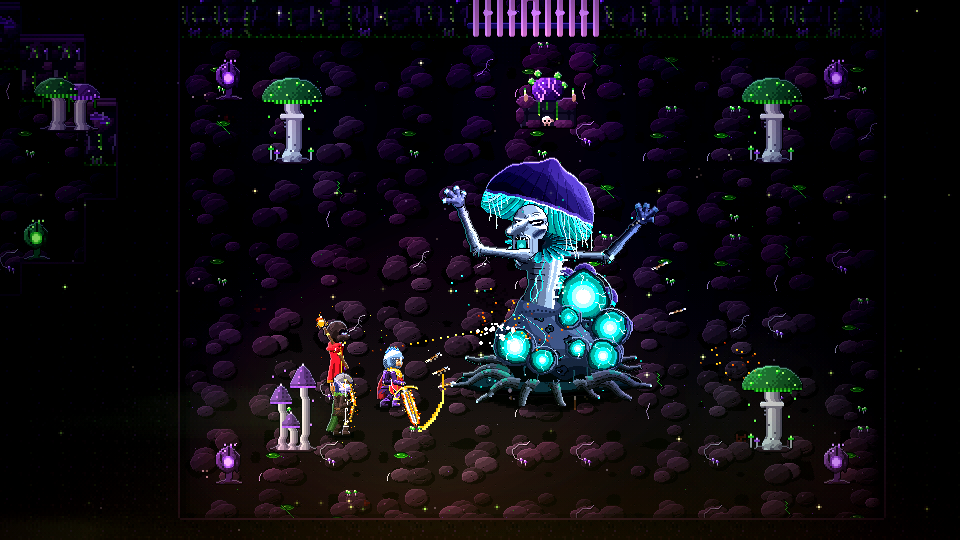
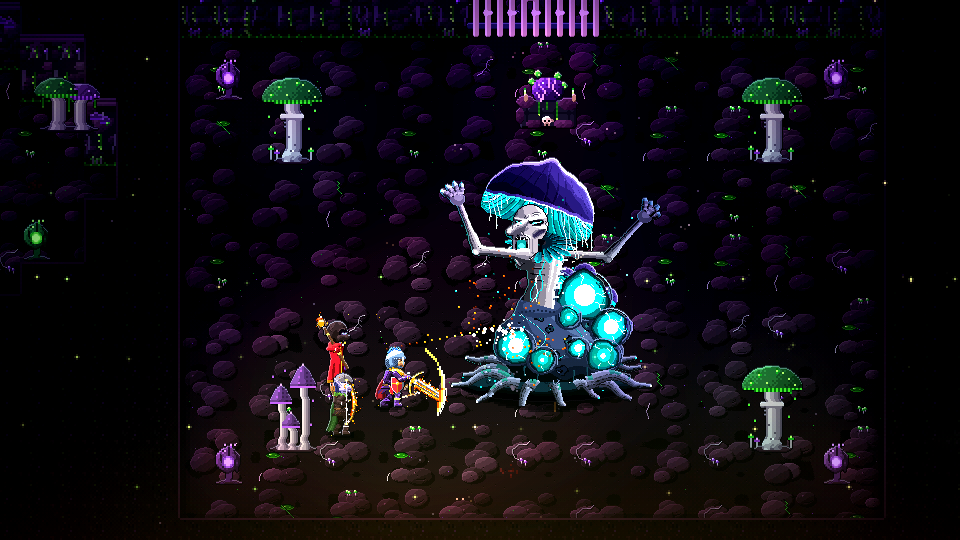
Mutter Fäulnis: Arme modelliert, hellere Haut, harte Leuchtstufen
Zweite Prüfrunde:
- Arme ohne Linienkontur, nur harte Hell-Dunkel-Stufen; spitzer Ellbogenknochen,
  eingefallener Unterarm mit Rinne, Handgelenk dünner als der Handrücken,
  vier getrennte, gegliederte Krallenfinger (Bosskino: kürzere Finger).
- Fahle Aschehaut statt Grau-Blau, setzt sich vom nachtblauen Leib ab; breite
  helle Hutoberkante; deutlicher Kontaktschatten; Wurzeln heller als der Boden.
- Leuchten in drei harten Stufen, Kapseln mit heißem Kern, Mittelring, Rand.
- Hutrippen unregelmäßig (Breite, Schwung, Unterbrechungen).

Claude-Session: https://claude.ai/code/session_014Wu8i3QgZxKwoUXG4nWsVr

Changed region(s): [[0.3438, 0.2963, 0.6875, 0.8], [0.7812, 0.7111, 0.8438, 0.7407], [0.75, 0.8, 0.7812, 0.8296]]

diff --git a/site/bosskino.js b/site/bosskino.js
@@ -13,7 +13,7 @@
   const poster = stage?.querySelector('img');
   if (!root || !stage || !poster) return;
   // <bosskino.mjs> – von tools/bosskino.mjs geschrieben, nicht von Hand ändern
-  const META = {"szene":{"W":560,"H":216,"FY":190,"F":2,"X0":-152,"X1":712},"bosse":{"malgareth":{"name":"malgareth","glut":["#fff2c0","#ffb648","#c8420c"],"fokus":[300,290],"fig":{"x":201,"y":23,"w":272,"h":171},"ruhe":[{"r":"hinten","n":8,"ms":170},{"r":"koerper","seq":[0,0,0,1,1,2,2,2,1,1],"ms":210},{"r":"krone","n":6,"ms":100,"dy":[0,-1,-2],"von":"koerper"},{"r":"flamme","n":6,"ms":100}],"moment":{"f":[[0,130],[1,110],[2,110],[3,80],[4,80],[5,80],[6,80],[7,80],[8,80],[9,80],[10,60],[11,50],[12,60],[13,70],[14,90],[15,110],[16,140],[17,140],[18,140],[19,110],[20,130],[21,110],[22,130],[23,120]],"hit":12},"stopp":80,"beben":[[0,3],[2,-2],[-1,1],[1,0]],"warn":{"x0":8,"x1":240,"y":187,"h":7,"dir":-1,"vor":760,"c":["#7a1a08","#c8420c","#ffb648"]},"ereignisse":[{"k":"bild","r":"welle","at":0,"x":-152,"y":187,"w":405,"h":29,"n":35,"ms":60,"z":"boden"},{"k":"bild","r":"blitz","at":0,"x":226,"y":159,"w":41,"h":34,"n":5,"ms":60,"quer":true,"z":"vorn"},{"k":"wand","r":"wand","r2":"wand2","r3":"wand3","at":30,"x":242,"y":193,"dir":-1,"v":300,"weg":328,"w":74,"h":100,"w2":40,"h2":58,"w3":18,"h3":28,"n":6,"ms":70,"abst":8,"nach":680,"z":"vorn"},{"k":"funken","at":0,"x":246,"y":188,"n":34,"r":5,"vx":60,"vy":140,"g":300,"c":["#fff2c0","#ffb648","#e8641a","#a8300a"]},{"k":"funken","at":0,"x":246,"y":189,"n":20,"r":9,"vx":40,"vy":50,"g":80,"c":["#6a5040","#4e3a30","#3a2a24"]}],"schalen":[[70,131],[436,131]],"schale":{"w":16,"h":20,"n":6,"ms":90},"schaleNach":"mitte-glut","teilchen":"asche","dichte":2.2,"nach":"boden-glut","dauer":9.5,"start":2.4,"layers":[{"name":"fern","x":-152,"y":0,"f":0.15,"r":[2176,2030,1728,432]},{"name":"fern-glut","x":286,"y":0,"f":0.15,"glow":{"per":3.6,"lo":0.55,"steps":3},"r":[3114,2462,338,322]},{"name":"mitte","x":-152,"y":0,"f":0.45,"r":[0,2052,1728,432]},{"name":"mitte-glut","x":73,"y":149,"f":0.45,"glow":{"per":4.1,"lo":0.66,"steps":3},"r":[1452,2894,754,132]},{"name":"boden","x":-152,"y":186,"f":1,"r":[0,3026,1728,60]},{"name":"boden-glut","x":230,"y":187,"f":1,"glow":{"per":3.4,"lo":0.6,"steps":3},"r":[2206,3010,488,44]},{"name":"vorn","x":-152,"y":0,"f":1.35,"r":[1728,2462,1386,432]}],"figur":{"fx":151,"fy":167,"r":{"hinten":[0,2484,1552,332],"koerper":[3114,2784,696,314],"krone":[2694,2962,336,44],"flamme":[888,2816,564,142],"moment":[0,0,2176,2052,544,342,4]},"o":{"hinten":[147,2,97,166],"koerper":[66,11,116,157],"krone":[130,5,28,22],"flamme":[63,97,47,71],"moment":[0,0,272,171]}},"fxr":{"welle":[2176,0,810,2030],"wand":[0,2816,888,200],"wand2":[2206,2894,480,116],"wand3":[3810,2462,216,56],"schale":[3810,2518,192,40],"blitz":[2686,2894,410,68]}},"faeulnis":{"glut":["#e2fff6","#7cf0dc","#0a726e"],"fokus":[300,332],"teilchen":"sporen","dichte":3.4,"dauer":9.5,"start":2.2,"name":"faeulnis","fig":{"x":229,"y":22,"w":340,"h":169},"ruhe":[{"n":6,"ms":150,"r":"arm-h"},{"n":8,"ms":170,"r":"koerper"},{"n":6,"ms":150,"r":"arm-v"}],"moment":{"f":[[0,110],[1,100],[2,120],[3,120],[4,120],[5,120],[6,60],[7,60],[8,100],[9,110],[10,130],[11,110],[12,120],[13,140],[14,140],[15,140],[16,200],[17,160]],"hit":8},"nach":"boden-glut","ereignisse":[{"k":"bild","r":"welle","at":0,"x":-149,"y":188,"w":407,"h":28,"n":46,"ms":60,"z":"boden"},{"k":"bild","r":"blitz","at":0,"x":239,"y":172,"w":25,"h":22,"n":4,"ms":60,"quer":true,"z":"vorn"},{"k":"funken","at":0,"x":251,"y":188,"n":22,"r":6,"vx":40,"vy":90,"g":200,"c":["#e2fff6","#7cf0dc","#1cc0ae","#0a726e"]},{"k":"funken","at":0,"x":251,"y":189,"n":16,"r":8,"vx":30,"vy":40,"g":80,"c":["#584c36","#3e3626","#28231a"]},{"k":"bild","r":"dorn","at":100,"x":205,"y":114,"w":40,"h":78,"n":9,"ms":80,"quer":true,"z":"vorn"},{"k":"funken","at":180,"x":225,"y":188,"n":8,"r":5,"vx":26,"vy":60,"g":220,"c":["#584c36","#3e3626","#464e2a"]},{"k":"bild","r":"dorn2","at":215,"x":180,"y":139,"w":30,"h":54,"n":9,"ms":80,"quer":true,"z":"vorn"},{"k":"funken","at":295,"x":195,"y":188,"n":8,"r":5,"vx":26,"vy":60,"g":220,"c":["#584c36","#3e3626","#464e2a"]},{"k":"bild","r":"wolke","at":355,"x":155,"y":128,"w":80,"h":64,"n":11,"ms":100,"quer":true,"z":"vorn"},{"k":"funken","at":275,"x":195,"y":184,"n":10,"r":6,"vx":18,"vy":30,"g":0,"c":["#e2fff6","#7cf0dc","#1cc0ae","#0a726e"]},{"k":"bild","r":"dorn","at":330,"x":145,"y":116,"w":40,"h":78,"n":9,"ms":80,"quer":true,"z":"vorn"},{"k":"funken","at":410,"x":165,"y":188,"n":8,"r":5,"vx":26,"vy":60,"g":220,"c":["#584c36","#3e3626","#464e2a"]},{"k":"bild","r":"dorn2","at":446,"x":120,"y":138,"w":30,"h":54,"n":9,"ms":80,"quer":true,"z":"vorn"},{"k":"funken","at":526,"x":135,"y":188,"n":8,"r":5,"vx":26,"vy":60,"g":220,"c":["#584c36","#3e3626","#464e2a"]},{"k":"bild","r":"wolke","at":586,"x":95,"y":128,"w":80,"h":64,"n":11,"ms":100,"quer":true,"z":"vorn"},{"k":"funken","at":506,"x":135,"y":184,"n":10,"r":6,"vx":18,"vy":30,"g":0,"c":["#e2fff6","#7cf0dc","#1cc0ae","#0a726e"]},{"k":"bild","r":"dorn","at":561,"x":85,"y":115,"w":40,"h":78,"n":9,"ms":80,"quer":true,"z":"vorn"},{"k":"funken","at":641,"x":105,"y":188,"n":8,"r":5,"vx":26,"vy":60,"g":220,"c":["#584c36","#3e3626","#464e2a"]},{"k":"bild","r":"dorn2","at":676,"x":60,"y":140,"w":30,"h":54,"n":9,"ms":80,"quer":true,"z":"vorn"},{"k":"funken","at":756,"x":75,"y":188,"n":8,"r":5,"vx":26,"vy":60,"g":220,"c":["#584c36","#3e3626","#464e2a"]},{"k":"bild","r":"wolke","at":816,"x":35,"y":128,"w":80,"h":64,"n":11,"ms":100,"quer":true,"z":"vorn"},{"k":"funken","at":736,"x":75,"y":184,"n":10,"r":6,"vx":18,"vy":30,"g":0,"c":["#e2fff6","#7cf0dc","#1cc0ae","#0a726e"]},{"k":"bild","r":"dorn","at":792,"x":25,"y":114,"w":40,"h":78,"n":9,"ms":80,"quer":true,"z":"vorn"},{"k":"funken","at":872,"x":45,"y":188,"n":8,"r":5,"vx":26,"vy":60,"g":220,"c":["#584c36","#3e3626","#464e2a"]},{"k":"bild","r":"dorn2","at":907,"x":0,"y":139,"w":30,"h":54,"n":9,"ms":80,"quer":true,"z":"vorn"},{"k":"funken","at":987,"x":15,"y":188,"n":8,"r":5,"vx":26,"vy":60,"g":220,"c":["#584c36","#3e3626","#464e2a"]},{"k":"bild","r":"wolke","at":1047,"x":-25,"y":128,"w":80,"h":64,"n":11,"ms":100,"quer":true,"z":"vorn"},{"k":"funken","at":967,"x":15,"y":184,"n":10,"r":6,"vx":18,"vy":30,"g":0,"c":["#e2fff6","#7cf0dc","#1cc0ae","#0a726e"]}],"stopp":70,"beben":[[0,3],[2,-2],[-2,1],[1,-1],[-1,1],[1,0],[0,1]],"warn":{"x0":12,"x1":247,"y":187,"h":7,"dir":-1,"vor":650,"c":["#04383a","#0a726e","#7cf0dc"]},"layers":[{"name":"fern","x":-152,"y":0,"f":0.15,"r":[0,3018,1728,432]},{"name":"fern-glut","x":-146,"y":1,"f":0.15,"glow":{"per":3.4,"lo":0.45,"steps":3},"r":[1728,3018,1716,262]},{"name":"mitte","x":-152,"y":97,"f":0.45,"r":[1728,3280,1728,238]},{"name":"mitte-glut","x":-138,"y":134,"f":0.45,"glow":{"per":2.9,"lo":0.4,"steps":3},"r":[2094,3860,1694,54]},{"name":"boden","x":-152,"y":186,"f":1,"r":[2094,3800,1728,60]},{"name":"boden-glut","x":-149,"y":194,"f":1,"glow":{"per":2.6,"lo":0.4,"steps":3},"r":[0,3826,1582,38]},{"name":"vorn","x":-138,"y":174,"f":1.35,"r":[0,3742,1684,84]}],"figur":{"r":{"arm-h":[0,3450,1248,184],"koerper":[814,2028,1788,990,596,330,3],"arm-v":[1968,3518,1464,154],"moment":[814,0,2040,2028,680,338,3]},"o":{"arm-h":[52,69,104,92],"koerper":[42,4,298,165],"arm-v":[19,76,122,77],"moment":[0,0,340,169]}},"fxr":{"blitz":[1684,3800,410,68],"dorn":[1248,3518,720,156],"dorn2":[0,3634,540,108],"wolke":[1968,3672,1760,128],"welle":[0,0,814,2576]}},"skalvyr":{"glut":["#ffffff","#9aeefc","#34b8e4"],"fokus":[292,298],"teilchen":"schnee","dichte":5,"dauer":9.5,"start":2.2,"beben":[[0,4],[3,-3],[-3,2],[2,-2],[-2,1],[1,-1],[0,1],[1,0]],"stopp":80,"name":"skalvyr","fig":{"x":167,"y":20,"w":390,"h":171},"ruhe":[{"n":12,"ms":150,"r":"koerper"}],"moment":{"f":[[0,150],[1,170],[2,100],[3,110],[4,110],[5,110],[6,110],[7,110],[8,150],[9,170],[10,190],[11,170]],"hit":8},"nach":"boden-glut","ereignisse":[{"k":"bild","r":"schatten","at":-770,"x":62,"y":176,"w":260,"h":26,"n":20,"ms":40,"quer":true,"z":"boden"},{"k":"bild","r":"reste","at":270,"x":62,"y":176,"w":260,"h":26,"n":11,"ms":150,"quer":true,"z":"boden"},{"k":"bild","r":"welle","at":0,"x":-138,"y":187,"w":661,"h":29,"n":41,"ms":60,"z":"boden"},{"k":"zapfen","r":"zapfen-s","r2":"steckt-s","at":-20,"x":174,"y":187,"vor":640,"w":18,"h":62,"n":5,"ms":16,"sw":54,"sh":68,"mr":1,"z":"vorn"},{"k":"zapfen","r":"zapfen-m","r2":"steckt-m","at":-70,"x":226,"y":188,"vor":640,"w":24,"h":82,"n":5,"ms":26,"sw":60,"sh":88,"mr":1,"z":"vorn"},{"k":"zapfen","r":"zapfen-m","r2":"steckt-m","at":-110,"x":160,"y":190,"vor":640,"w":24,"h":82,"n":5,"ms":34,"sw":60,"sh":88,"mr":1,"z":"vorn"},{"k":"zapfen","r":"zapfen-s","r2":"steckt-s","at":-130,"x":252,"y":194,"vor":640,"w":18,"h":62,"n":5,"ms":38,"sw":54,"sh":68,"mr":1,"z":"vorn"},{"k":"zapfen","r":"zapfen-l","r2":"steckt-l","at":0,"x":190,"y":195,"vor":640,"w":30,"h":104,"n":5,"ms":12,"sw":66,"sh":110,"mr":1,"z":"vorn"},{"k":"zapfen","r":"zapfen-s","r2":"steckt-s","at":-40,"x":138,"y":196,"vor":640,"w":18,"h":62,"n":5,"ms":20,"sw":54,"sh":68,"mr":1,"z":"vorn"},{"k":"zapfen","r":"zapfen-s","r2":"steckt-s","at":-90,"x":208,"y":197,"vor":640,"w":18,"h":62,"n":5,"ms":30,"sw":54,"sh":68,"mr":1,"z":"vorn"},{"k":"bild","r":"kranz","at":0,"x":62,"y":52,"w":260,"h":150,"n":12,"ms":60,"quer":true,"z":"vorn"},{"k":"funken","at":-520,"x":200,"y":10,"n":10,"r":16,"vx":6,"vy":-30,"g":140,"c":["#ffffff","#9aeefc","#34b8e4","#1670a0"]},{"k":"funken","at":-460,"x":150,"y":10,"n":10,"r":16,"vx":6,"vy":-30,"g":140,"c":["#ffffff","#9aeefc","#34b8e4","#1670a0"]},{"k":"funken","at":-400,"x":250,"y":10,"n":10,"r":16,"vx":6,"vy":-30,"g":140,"c":["#ffffff","#9aeefc","#34b8e4","#1670a0"]},{"k":"funken","at":-340,"x":120,"y":10,"n":10,"r":16,"vx":6,"vy":-30,"g":140,"c":["#ffffff","#9aeefc","#34b8e4","#1670a0"]},{"k":"funken","at":-280,"x":228,"y":10,"n":10,"r":16,"vx":6,"vy":-30,"g":140,"c":["#ffffff","#9aeefc","#34b8e4","#1670a0"]},{"k":"funken","at":-220,"x":176,"y":10,"n":10,"r":16,"vx":6,"vy":-30,"g":140,"c":["#ffffff","#9aeefc","#34b8e4","#1670a0"]}],"warn":null,"layers":[{"name":"fern","x":-152,"y":0,"f":0.15,"r":[2080,2736,1728,432]},{"name":"fern-glut","x":264,"y":7,"f":0.15,"glow":{"per":3.8,"lo":0.55,"steps":3},"r":[3808,0,220,342]},{"name":"mitte","x":-152,"y":0,"f":0.45,"r":[2080,3168,1728,432]},{"name":"mitte-glut","x":-140,"y":0,"f":0.45,"glow":{"per":3.1,"lo":0.5,"steps":3},"r":[0,3636,1696,342]},{"name":"boden","x":-152,"y":186,"f":1,"r":[2080,4252,1728,60]},{"name":"boden-glut","x":341,"y":192,"f":1,"glow":{"per":3.3,"lo":0.4,"steps":3},"r":[3880,466,204,20]},{"name":"vorn","x":-152,"y":0,"f":1.35,"r":[2080,3600,1728,432]}],"figur":{"r":{"koerper":[1322,1368,1998,1368,666,342,3],"moment":[1322,0,2340,1368,780,342,3]},"o":{"koerper":[57,0,333,171],"moment":[0,0,390,171]}},"fxr":{"zapfen-l":[4028,0,60,208],"steckt-l":[2080,4032,660,220],"zapfen-m":[4028,208,48,164],"steckt-m":[2740,4032,600,176],"zapfen-s":[3880,342,36,124],"steckt-s":[3340,4032,540,136],"kranz":[0,2736,2080,900,520,300,4],"schatten":[0,3978,2080,260,520,52,4],"reste":[0,4238,2080,156,520,52,4],"welle":[0,0,1322,2378]}}}};
+  const META = {"szene":{"W":560,"H":216,"FY":190,"F":2,"X0":-152,"X1":712},"bosse":{"malgareth":{"name":"malgareth","glut":["#fff2c0","#ffb648","#c8420c"],"fokus":[300,290],"fig":{"x":201,"y":23,"w":272,"h":171},"ruhe":[{"r":"hinten","n":8,"ms":170},{"r":"koerper","seq":[0,0,0,1,1,2,2,2,1,1],"ms":210},{"r":"krone","n":6,"ms":100,"dy":[0,-1,-2],"von":"koerper"},{"r":"flamme","n":6,"ms":100}],"moment":{"f":[[0,130],[1,110],[2,110],[3,80],[4,80],[5,80],[6,80],[7,80],[8,80],[9,80],[10,60],[11,50],[12,60],[13,70],[14,90],[15,110],[16,140],[17,140],[18,140],[19,110],[20,130],[21,110],[22,130],[23,120]],"hit":12},"stopp":80,"beben":[[0,3],[2,-2],[-1,1],[1,0]],"warn":{"x0":8,"x1":240,"y":187,"h":7,"dir":-1,"vor":760,"c":["#7a1a08","#c8420c","#ffb648"]},"ereignisse":[{"k":"bild","r":"welle","at":0,"x":-152,"y":187,"w":405,"h":29,"n":35,"ms":60,"z":"boden"},{"k":"bild","r":"blitz","at":0,"x":226,"y":159,"w":41,"h":34,"n":5,"ms":60,"quer":true,"z":"vorn"},{"k":"wand","r":"wand","r2":"wand2","r3":"wand3","at":30,"x":242,"y":193,"dir":-1,"v":300,"weg":328,"w":74,"h":100,"w2":40,"h2":58,"w3":18,"h3":28,"n":6,"ms":70,"abst":8,"nach":680,"z":"vorn"},{"k":"funken","at":0,"x":246,"y":188,"n":34,"r":5,"vx":60,"vy":140,"g":300,"c":["#fff2c0","#ffb648","#e8641a","#a8300a"]},{"k":"funken","at":0,"x":246,"y":189,"n":20,"r":9,"vx":40,"vy":50,"g":80,"c":["#6a5040","#4e3a30","#3a2a24"]}],"schalen":[[70,131],[436,131]],"schale":{"w":16,"h":20,"n":6,"ms":90},"schaleNach":"mitte-glut","teilchen":"asche","dichte":2.2,"nach":"boden-glut","dauer":9.5,"start":2.4,"layers":[{"name":"fern","x":-152,"y":0,"f":0.15,"r":[2176,2030,1728,432]},{"name":"fern-glut","x":286,"y":0,"f":0.15,"glow":{"per":3.6,"lo":0.55,"steps":3},"r":[3114,2462,338,322]},{"name":"mitte","x":-152,"y":0,"f":0.45,"r":[0,2052,1728,432]},{"name":"mitte-glut","x":73,"y":149,"f":0.45,"glow":{"per":4.1,"lo":0.66,"steps":3},"r":[1452,2894,754,132]},{"name":"boden","x":-152,"y":186,"f":1,"r":[0,3026,1728,60]},{"name":"boden-glut","x":230,"y":187,"f":1,"glow":{"per":3.4,"lo":0.6,"steps":3},"r":[2206,3010,488,44]},{"name":"vorn","x":-152,"y":0,"f":1.35,"r":[1728,2462,1386,432]}],"figur":{"fx":151,"fy":167,"r":{"hinten":[0,2484,1552,332],"koerper":[3114,2784,696,314],"krone":[2694,2962,336,44],"flamme":[888,2816,564,142],"moment":[0,0,2176,2052,544,342,4]},"o":{"hinten":[147,2,97,166],"koerper":[66,11,116,157],"krone":[130,5,28,22],"flamme":[63,97,47,71],"moment":[0,0,272,171]}},"fxr":{"welle":[2176,0,810,2030],"wand":[0,2816,888,200],"wand2":[2206,2894,480,116],"wand3":[3810,2462,216,56],"schale":[3810,2518,192,40],"blitz":[2686,2894,410,68]}},"faeulnis":{"glut":["#e2fff6","#7cf0dc","#0a726e"],"fokus":[300,332],"teilchen":"sporen","dichte":3.4,"dauer":9.5,"start":2.2,"name":"faeulnis","fig":{"x":229,"y":22,"w":340,"h":169},"ruhe":[{"n":6,"ms":150,"r":"arm-h"},{"n":8,"ms":170,"r":"koerper"},{"n":6,"ms":150,"r":"arm-v"}],"moment":{"f":[[0,110],[1,100],[2,120],[3,120],[4,120],[5,120],[6,60],[7,60],[8,100],[9,110],[10,130],[11,110],[12,120],[13,140],[14,140],[15,140],[16,200],[17,160]],"hit":8},"nach":"boden-glut","ereignisse":[{"k":"bild","r":"welle","at":0,"x":-149,"y":188,"w":407,"h":28,"n":46,"ms":60,"z":"boden"},{"k":"bild","r":"blitz","at":0,"x":239,"y":172,"w":25,"h":22,"n":4,"ms":60,"quer":true,"z":"vorn"},{"k":"funken","at":0,"x":251,"y":188,"n":22,"r":6,"vx":40,"vy":90,"g":200,"c":["#e2fff6","#7cf0dc","#1cc0ae","#0a726e"]},{"k":"funken","at":0,"x":251,"y":189,"n":16,"r":8,"vx":30,"vy":40,"g":80,"c":["#584c36","#3e3626","#28231a"]},{"k":"bild","r":"dorn","at":100,"x":205,"y":114,"w":40,"h":78,"n":9,"ms":80,"quer":true,"z":"vorn"},{"k":"funken","at":180,"x":225,"y":188,"n":8,"r":5,"vx":26,"vy":60,"g":220,"c":["#584c36","#3e3626","#464e2a"]},{"k":"bild","r":"dorn2","at":215,"x":180,"y":139,"w":30,"h":54,"n":9,"ms":80,"quer":true,"z":"vorn"},{"k":"funken","at":295,"x":195,"y":188,"n":8,"r":5,"vx":26,"vy":60,"g":220,"c":["#584c36","#3e3626","#464e2a"]},{"k":"bild","r":"wolke","at":355,"x":155,"y":128,"w":80,"h":64,"n":11,"ms":100,"quer":true,"z":"vorn"},{"k":"funken","at":275,"x":195,"y":184,"n":10,"r":6,"vx":18,"vy":30,"g":0,"c":["#e2fff6","#7cf0dc","#1cc0ae","#0a726e"]},{"k":"bild","r":"dorn","at":330,"x":145,"y":116,"w":40,"h":78,"n":9,"ms":80,"quer":true,"z":"vorn"},{"k":"funken","at":410,"x":165,"y":188,"n":8,"r":5,"vx":26,"vy":60,"g":220,"c":["#584c36","#3e3626","#464e2a"]},{"k":"bild","r":"dorn2","at":446,"x":120,"y":138,"w":30,"h":54,"n":9,"ms":80,"quer":true,"z":"vorn"},{"k":"funken","at":526,"x":135,"y":188,"n":8,"r":5,"vx":26,"vy":60,"g":220,"c":["#584c36","#3e3626","#464e2a"]},{"k":"bild","r":"wolke","at":586,"x":95,"y":128,"w":80,"h":64,"n":11,"ms":100,"quer":true,"z":"vorn"},{"k":"funken","at":506,"x":135,"y":184,"n":10,"r":6,"vx":18,"vy":30,"g":0,"c":["#e2fff6","#7cf0dc","#1cc0ae","#0a726e"]},{"k":"bild","r":"dorn","at":561,"x":85,"y":115,"w":40,"h":78,"n":9,"ms":80,"quer":true,"z":"vorn"},{"k":"funken","at":641,"x":105,"y":188,"n":8,"r":5,"vx":26,"vy":60,"g":220,"c":["#584c36","#3e3626","#464e2a"]},{"k":"bild","r":"dorn2","at":676,"x":60,"y":140,"w":30,"h":54,"n":9,"ms":80,"quer":true,"z":"vorn"},{"k":"funken","at":756,"x":75,"y":188,"n":8,"r":5,"vx":26,"vy":60,"g":220,"c":["#584c36","#3e3626","#464e2a"]},{"k":"bild","r":"wolke","at":816,"x":35,"y":128,"w":80,"h":64,"n":11,"ms":100,"quer":true,"z":"vorn"},{"k":"funken","at":736,"x":75,"y":184,"n":10,"r":6,"vx":18,"vy":30,"g":0,"c":["#e2fff6","#7cf0dc","#1cc0ae","#0a726e"]},{"k":"bild","r":"dorn","at":792,"x":25,"y":114,"w":40,"h":78,"n":9,"ms":80,"quer":true,"z":"vorn"},{"k":"funken","at":872,"x":45,"y":188,"n":8,"r":5,"vx":26,"vy":60,"g":220,"c":["#584c36","#3e3626","#464e2a"]},{"k":"bild","r":"dorn2","at":907,"x":0,"y":139,"w":30,"h":54,"n":9,"ms":80,"quer":true,"z":"vorn"},{"k":"funken","at":987,"x":15,"y":188,"n":8,"r":5,"vx":26,"vy":60,"g":220,"c":["#584c36","#3e3626","#464e2a"]},{"k":"bild","r":"wolke","at":1047,"x":-25,"y":128,"w":80,"h":64,"n":11,"ms":100,"quer":true,"z":"vorn"},{"k":"funken","at":967,"x":15,"y":184,"n":10,"r":6,"vx":18,"vy":30,"g":0,"c":["#e2fff6","#7cf0dc","#1cc0ae","#0a726e"]}],"stopp":70,"beben":[[0,3],[2,-2],[-2,1],[1,-1],[-1,1],[1,0],[0,1]],"warn":{"x0":12,"x1":247,"y":187,"h":7,"dir":-1,"vor":650,"c":["#04383a","#0a726e","#7cf0dc"]},"layers":[{"name":"fern","x":-152,"y":0,"f":0.15,"r":[0,3018,1728,432]},{"name":"fern-glut","x":-146,"y":1,"f":0.15,"glow":{"per":3.4,"lo":0.45,"steps":3},"r":[1728,3018,1716,262]},{"name":"mitte","x":-152,"y":97,"f":0.45,"r":[1728,3280,1728,238]},{"name":"mitte-glut","x":-138,"y":134,"f":0.45,"glow":{"per":2.9,"lo":0.4,"steps":3},"r":[0,3842,1694,54]},{"name":"boden","x":-152,"y":186,"f":1,"r":[1684,3782,1728,60]},{"name":"boden-glut","x":-149,"y":194,"f":1,"glow":{"per":2.6,"lo":0.4,"steps":3},"r":[1694,3842,1582,38]},{"name":"vorn","x":-138,"y":174,"f":1.35,"r":[0,3724,1684,84]}],"figur":{"r":{"arm-h":[0,3450,1164,166],"koerper":[814,2028,1788,990,596,330,3],"arm-v":[1884,3518,1344,136],"moment":[814,0,2040,2028,680,338,3]},"o":{"arm-h":[59,69,97,83],"koerper":[42,4,298,165],"arm-v":[29,76,112,68],"moment":[0,0,340,169]}},"fxr":{"blitz":[3644,0,410,68],"dorn":[1164,3518,720,156],"dorn2":[0,3616,540,108],"wolke":[1884,3654,1760,128],"welle":[0,0,814,2576]}},"skalvyr":{"glut":["#ffffff","#9aeefc","#34b8e4"],"fokus":[292,298],"teilchen":"schnee","dichte":5,"dauer":9.5,"start":2.2,"beben":[[0,4],[3,-3],[-3,2],[2,-2],[-2,1],[1,-1],[0,1],[1,0]],"stopp":80,"name":"skalvyr","fig":{"x":167,"y":20,"w":390,"h":171},"ruhe":[{"n":12,"ms":150,"r":"koerper"}],"moment":{"f":[[0,150],[1,170],[2,100],[3,110],[4,110],[5,110],[6,110],[7,110],[8,150],[9,170],[10,190],[11,170]],"hit":8},"nach":"boden-glut","ereignisse":[{"k":"bild","r":"schatten","at":-770,"x":62,"y":176,"w":260,"h":26,"n":20,"ms":40,"quer":true,"z":"boden"},{"k":"bild","r":"reste","at":270,"x":62,"y":176,"w":260,"h":26,"n":11,"ms":150,"quer":true,"z":"boden"},{"k":"bild","r":"welle","at":0,"x":-138,"y":187,"w":661,"h":29,"n":41,"ms":60,"z":"boden"},{"k":"zapfen","r":"zapfen-s","r2":"steckt-s","at":-20,"x":174,"y":187,"vor":640,"w":18,"h":62,"n":5,"ms":16,"sw":54,"sh":68,"mr":1,"z":"vorn"},{"k":"zapfen","r":"zapfen-m","r2":"steckt-m","at":-70,"x":226,"y":188,"vor":640,"w":24,"h":82,"n":5,"ms":26,"sw":60,"sh":88,"mr":1,"z":"vorn"},{"k":"zapfen","r":"zapfen-m","r2":"steckt-m","at":-110,"x":160,"y":190,"vor":640,"w":24,"h":82,"n":5,"ms":34,"sw":60,"sh":88,"mr":1,"z":"vorn"},{"k":"zapfen","r":"zapfen-s","r2":"steckt-s","at":-130,"x":252,"y":194,"vor":640,"w":18,"h":62,"n":5,"ms":38,"sw":54,"sh":68,"mr":1,"z":"vorn"},{"k":"zapfen","r":"zapfen-l","r2":"steckt-l","at":0,"x":190,"y":195,"vor":640,"w":30,"h":104,"n":5,"ms":12,"sw":66,"sh":110,"mr":1,"z":"vorn"},{"k":"zapfen","r":"zapfen-s","r2":"steckt-s","at":-40,"x":138,"y":196,"vor":640,"w":18,"h":62,"n":5,"ms":20,"sw":54,"sh":68,"mr":1,"z":"vorn"},{"k":"zapfen","r":"zapfen-s","r2":"steckt-s","at":-90,"x":208,"y":197,"vor":640,"w":18,"h":62,"n":5,"ms":30,"sw":54,"sh":68,"mr":1,"z":"vorn"},{"k":"bild","r":"kranz","at":0,"x":62,"y":52,"w":260,"h":150,"n":12,"ms":60,"quer":true,"z":"vorn"},{"k":"funken","at":-520,"x":200,"y":10,"n":10,"r":16,"vx":6,"vy":-30,"g":140,"c":["#ffffff","#9aeefc","#34b8e4","#1670a0"]},{"k":"funken","at":-460,"x":150,"y":10,"n":10,"r":16,"vx":6,"vy":-30,"g":140,"c":["#ffffff","#9aeefc","#34b8e4","#1670a0"]},{"k":"funken","at":-400,"x":250,"y":10,"n":10,"r":16,"vx":6,"vy":-30,"g":140,"c":["#ffffff","#9aeefc","#34b8e4","#1670a0"]},{"k":"funken","at":-340,"x":120,"y":10,"n":10,"r":16,"vx":6,"vy":-30,"g":140,"c":["#ffffff","#9aeefc","#34b8e4","#1670a0"]},{"k":"funken","at":-280,"x":228,"y":10,"n":10,"r":16,"vx":6,"vy":-30,"g":140,"c":["#ffffff","#9aeefc","#34b8e4","#1670a0"]},{"k":"funken","at":-220,"x":176,"y":10,"n":10,"r":16,"vx":6,"vy":-30,"g":140,"c":["#ffffff","#9aeefc","#34b8e4","#1670a0"]}],"warn":null,"layers":[{"name":"fern","x":-152,"y":0,"f":0.15,"r":[2080,2736,1728,432]},{"name":"fern-glut","x":264,"y":7,"f":0.15,"glow":{"per":3.8,"lo":0.55,"steps":3},"r":[3808,0,220,342]},{"name":"mitte","x":-152,"y":0,"f":0.45,"r":[2080,3168,1728,432]},{"name":"mitte-glut","x":-140,"y":0,"f":0.45,"glow":{"per":3.1,"lo":0.5,"steps":3},"r":[0,3636,1696,342]},{"name":"boden","x":-152,"y":186,"f":1,"r":[2080,4252,1728,60]},{"name":"boden-glut","x":341,"y":192,"f":1,"glow":{"per":3.3,"lo":0.4,"steps":3},"r":[3880,466,204,20]},{"name":"vorn","x":-152,"y":0,"f":1.35,"r":[2080,3600,1728,432]}],"figur":{"r":{"koerper":[1322,1368,1998,1368,666,342,3],"moment":[1322,0,2340,1368,780,342,3]},"o":{"koerper":[57,0,333,171],"moment":[0,0,390,171]}},"fxr":{"zapfen-l":[4028,0,60,208],"steckt-l":[2080,4032,660,220],"zapfen-m":[4028,208,48,164],"steckt-m":[2740,4032,600,176],"zapfen-s":[3880,342,36,124],"steckt-s":[3340,4032,540,136],"kranz":[0,2736,2080,900,520,300,4],"schatten":[0,3978,2080,260,520,52,4],"reste":[0,4238,2080,156,520,52,4],"welle":[0,0,1322,2378]}}}};
   // </bosskino.mjs>
   if (!META) return;
   const S = META.szene;

diff --git a/src/sprites/rot_mother.js b/src/sprites/rot_mother.js
@@ -39,13 +39,13 @@ const R = (a) => a.map(hex);
 
 // Materialrampen (dunkel -> hell)
 const FLESH = R(['#06080e', '#0d1120', '#171d31', '#232b45', '#313b5b', '#455375', '#637393']);
-const SKIN = R(['#090b14', '#1d2331', '#333d51', '#515d75', '#77899f', '#a5b5c5', '#d5e1e9']);
-const CAP_EDGE = R(['#c4b4ec', '#9c88d0']);
+const SKIN = R(['#0c0c12', '#26262e', '#42404c', '#66626e', '#928c94', '#bdb7ba', '#e6e2e0']);   // fahle Aschehaut, wärmer als der Leib
+const CAP_EDGE = R(['#ece4ff', '#c8bcf0', '#a090dc']);
 const CAP = R(['#07051a', '#120d2c', '#1d1540', '#2a1f58', '#3c2c72', '#54408e', '#7862ae']);
 const SPOT = R(['#46566a', '#7a8ea2', '#b4c6d4', '#e6f2f6']);
 const GILL = R(['#061e28', '#0a3846', '#115e6c', '#1c8e96', '#46c6c2', '#a6f2ea']);
 const HAIR = R(['#16262e', '#2a4652', '#46707c', '#70a2aa', '#a4d4d4', '#dcf8f2']);
-const BARK = R(['#08080c', '#14161e', '#222634', '#323a4c', '#48526a', '#64708c']);
+const BARK = R(['#0e0e14', '#262a3a', '#3c4258', '#565e7a', '#747e9c', '#98a2be']);
 const SHADOW = R(['#020205', '#05060c']);
 const MOSS = R(['#08161a', '#0e2a2e', '#164044', '#20585a', '#2e7472']);
 const SAC = R(['#04161c', '#082e36', '#0e5860', '#1c9898', '#58dacd', '#a6f4e6', '#e6fff8']);
@@ -126,7 +126,7 @@ class Painter {
     const v = lvl * this.gk;
     if (v < 0.5) return;
     if (X < 0 || X >= TW || Y < 0 || Y >= this.clip * RS || Y >= TH) return;
-    const l = Math.min(4, Math.round(v)), i = Y * TW + X;
+    const l = v < 1.3 ? 1 : v < 2.6 ? 2 : 4, i = Y * TW + X;   // drei harte Leuchtstufen
     this.g[i] = SET_A[k][l]; this.e[i] = SET_B[k][l];
     if (X < this.x0) this.x0 = X; if (X > this.x1) this.x1 = X; if (Y < this.y0) this.y0 = Y; if (Y > this.y1) this.y1 = Y;
   }
@@ -708,7 +708,7 @@ function sacFine(pt, P, c, rr, gp, torn, i) {
         continue;
       }
       const dl = d + (dx + dy) / rf * 0.12;   // Licht oben links: Kern leicht dorthin versetzt
-      let k = dl < 0.36 ? 5 : dl < 0.6 ? 4 : dl < 0.78 ? 3 : dl < 0.9 ? 2 : 1;
+      let k = dl < 0.42 ? 5 : dl < 0.72 ? 3 : 2;   // harte Stufen: heißer Kern, Mittelring, dunkler Rand
       if (d > 0.93) k = 0;
       else if (d > 0.86) k = Math.min(k, 1);
       for (const bl of blots) {
@@ -718,7 +718,7 @@ function sacFine(pt, P, c, rr, gp, torn, i) {
         if (bd < 1) { k = Math.max(1, Math.min(k, 3) - (bd > 0.6 ? 2 : 1)); break; }
       }
       pt.tex(X, Y, SAC[Math.max(0, k - sh)]);
-      if (d < 0.8) pt.gtex(X, Y, K_SAC, (0.8 - d) * 3.6 * gp + 0.3 * gp + (d < 0.2 ? 0.6 : 0));
+      if (d < 0.72) pt.gtex(X, Y, K_SAC, (d < 0.18 ? 3.2 : dl < 0.42 ? 2.0 : 1.0) * gp);
     }
   }
   if (torn) return;
@@ -931,8 +931,8 @@ const RM_FACE = [
   '..............oo',
 ];
 const RM_SPLIT_FINE = 36, RM_SPLIT = 18; // ab dieser Zeile klappt der Unterkiefer nach unten
-const RM_SKIN = R(['#090b14', '#1d2331', '#333d51', '#515d75', '#77899f', '#a5b5c5', '#d5e1e9']);
-const RM_ROT = R(['#191a36', '#24304a']);
+const RM_SKIN = R(['#0c0c12', '#26262e', '#42404c', '#66626e', '#928c94', '#bdb7ba', '#e6e2e0']);
+const RM_ROT = R(['#1e1a30', '#2e2a44']);
 const RM_EYE = R(['#e2fff6', '#46d6c6']), RM_EYE_OFF = R(['#1d2331', '#121620']);
 const RM_MAW = hex('#06050c'), RM_FANG = R(['#d5e1e9', '#8ea0b4']);
 function headPos(P, L) {
@@ -1063,13 +1063,17 @@ function capPass(pt, P, K, part) {
         } else {
           let v = 0.12 + hgt * 0.5 - q * 0.36 + (hgt > 0.6 && q < 0.05 ? 0.12 : 0);
           // radiale Rillen: zur Spitze hin zusammenlaufend
-          const q0 = q / Math.max(0.2, 1 - 0.6 * Math.pow(hgt, 1.4)), gs = Math.sin(q0 * 13 + 0.3);
-          if (hgt < 0.8 && Math.abs(gs) < gw) v -= 0.15;
-          else if (fine && hgt < 0.8 && gs > gw && gs < gw * 2.2 && q < 0.3) v += 0.07;   // Lichtgrat neben der Rille
+          // unregelmäßig: jede Rille mit eigener Breite, leichtem Schwung und Unterbrechungen
+          const q0 = q / Math.max(0.2, 1 - 0.6 * Math.pow(hgt, 1.4)), ga = q0 * 13 + 0.3, gi = Math.round(ga / Math.PI);
+          const gs = Math.sin(ga + 0.45 * Math.sin(hgt * 6.5 + gi * 1.9) + (hash2(gi, 1, 401) - 0.5) * 0.9);
+          const gwi = gw * (0.5 + hash2(gi, 2, 401) * 1.1), cut = hash2(gi, Math.floor(hgt * 5), 403) < 0.22;
+          if (hgt < 0.8 + hash2(gi, 3, 401) * 0.12 && Math.abs(gs) < gwi && !cut) v -= 0.15;
+          else if (fine && hgt < 0.8 && gs > gwi && gs < gwi * 2.2 && q < 0.3 && !cut) v += 0.07;   // Lichtgrat neben der Rille
           col = fine ? shadeF(CAP, v) : shade(CAP, v, X, Y);
           // helle Randkante über die ganze Kuppel (Silhouette trägt auch ohne Leuchten), links am hellsten
-          if (up < (fine ? 0.55 : 0.9)) col = q < -0.3 ? CAP_EDGE[0] : q < 0.4 ? CAP_EDGE[1] : CAP[6];
-          else if (fine && up < 1.05) col = q < -0.1 ? CAP[6] : CAP[5];
+          if (up < (fine ? 0.6 : 0.9)) col = q < -0.3 ? CAP_EDGE[0] : q < 0.4 ? CAP_EDGE[1] : CAP_EDGE[2];
+          else if (up < (fine ? 1.6 : 1.9)) col = q < -0.1 ? CAP_EDGE[1] : q < 0.5 ? CAP_EDGE[2] : CAP[6];
+          else if (fine && up < 2.3 && q < 0.3) col = CAP[6];
         }
         pt.tex(X, Y, col);
       } else if (!dome && ly > rim && ly <= rim + (2.4 + 2.6 * sq) * gm) {
@@ -1116,15 +1120,17 @@ function hyphae(pt, P, cg) {
   }
 }
 
-// Arm: lang und ausgezehrt – dünner Knochen unter Haut mit Schulterkugel, spitzem Ellbogenknoten (Falten),
-// Unterarmmuskel, Ellenkante im Licht und knochigem Handgelenk; gezeichnete dunkle Kontur, harte Lichtstufen,
-// türkise Leuchtader. Hand mit vier langen Krallenfingern mit Knöcheln.
+// Arm: lang und ausgezehrt – zwei Glieder mit Knick, dünner Oberarm, spitzer Ellbogenknochen, eingefallener
+// Unterarm mit Rinne, Handgelenk dünner als die Hand. Modelliert nur über harte Hell-Dunkel-Stufen (Lichtkante,
+// Mittelton, Schatten, Kernschatten) statt Linienkontur. Krallenhand: breiter Handrücken, vier klar getrennte,
+// gegliederte Finger mit hellen Krallen.
 const bump = (t, c, w, a) => { const u = (t - c) / w; return u > -1 && u < 1 ? a * (1 - u * u) : 0; };
+const skinStep = (v) => SKIN[v <= 0 ? 0 : v >= 1 ? 6 : (v * 6 + 0.5) | 0];
 function vineArm(pt, P, S, E, curl, claw, back, seed, meta, key) {
   const dx = E.x - S.x, dy = E.y - S.y, len = Math.hypot(dx, dy) || 1;
   const px = -dy / len, py = dx / len;
   const n = Math.max(16, Math.round(len * 1.2));
-  // Ober- und Unterarm als zwei gerade Glieder mit Knick am Ellbogen (statt einer weichen Kurve)
+  // Ober- und Unterarm als zwei gerade Glieder mit Knick am Ellbogen
   const M = { x: (S.x + E.x) / 2 + px * curl * 1.1, y: (S.y + E.y) / 2 + py * curl * 1.1 };
   const pts = [];
   for (let i = 0; i <= n; i++) {
@@ -1133,57 +1139,55 @@ function vineArm(pt, P, S, E, curl, claw, back, seed, meta, key) {
   }
   const clipping = P.plunge > 0.3;
   if (clipping) pt.clip = GY - 1;
-  const sh = back ? -0.16 : 0;
-  const wf = (t) => 3.1 - t * 0.9 + bump(t, 0.03, 0.09, 2.8) - bump(t, 0.3, 0.12, 0.35) + bump(t, 0.5, 0.06, 2.8)
-    + bump(t, 0.62, 0.09, 1.3) + bump(t, 0.87, 0.03, 0.9);
-  const fine = RS > 1, OL = SKIN[0];
-  // Kontur: etwas breiterer dunkler Strang darunter (auch vor dem Leib klar abgesetzt)
-  tube(pt, pts, (t) => wf(t) + (fine ? 1.1 : 1.6), () => OL);
+  const sh = back ? -0.18 : 0;
+  // Breite: Schulterkugel, dünner Oberarm, Ellbogen, kurzer Muskelansatz, eingefallener Unterarm, schmales Handgelenk
+  const wf = (t) => (t < 0.5 ? 3.9 - t * 1.4 : 3.4 - (t - 0.5) * 2.8) + bump(t, 0.03, 0.09, 2.6) + bump(t, 0.5, 0.06, 1.4)
+    + bump(t, 0.6, 0.07, 1.1) - bump(t, 0.76, 0.12, 0.4);
+  const fine = RS > 1;
   tube(pt, pts, wf, fine ? (e, t) => {
-    // harte Stufen: Lichtkante, Mittelton, Schatten, Kernschatten am Rand
-    let v = e > 0.62 ? 0.8 : e > 0.18 ? 0.62 : e > -0.4 ? 0.46 : e > -0.78 ? 0.3 : 0.18;
-    v += sh;
-    if (t > 0.55 && t < 0.85 && Math.abs(e - 0.32) < 0.1) v = 0.82 + sh;          // Ellenkante im Licht
-    else if (t > 0.12 && t < 0.44 && Math.abs(e - 0.05) < 0.08) v -= 0.16;        // Sehne am Oberarm
-    if (t > 0.45 && t < 0.56) {                                                     // Ellbogen: Glanz und Falten
-      if (e > 0.45) v = 0.95 + sh;
-      if ((Math.abs(t - 0.47) < 0.007 || Math.abs(t - 0.53) < 0.007) && e < 0.3 && e > -0.6) v -= 0.3;
-    }
-    if (t > 0.84 && t < 0.9 && e > 0.3) v = 0.8 + sh;                              // Handgelenkknöchel
-    return SKIN[v <= 0 ? 0 : v >= 1 ? 6 : (v * 6 + 0.5) | 0];
-  } : (e, t, x, y) => shade(SKIN, (e > 0.5 ? 0.75 : e > -0.3 ? 0.5 : 0.25) + sh + (t > 0.46 && t < 0.54 && e > 0.3 ? 0.15 : 0), x, y));
-  // Krallenhand: knochiger Handrücken, vier lange Finger mit zwei Knöcheln, helle Krallen; erst Konturen, dann Füllung
-  const a = pts[pts.length - 3], b = pts[pts.length - 1];
-  const base = Math.atan2(b.y - a.y, b.x - a.x);
-  const fingers = [];
-  for (let f = 0; f < 4; f++) {
-    const fa = base + (f - 1.5) * (0.28 + claw * 0.38);
-    const fl = 8 + hash2(f, seed, 285) * 3 - (f === 0 ? 2 : 0);
-    const fp = [];
-    let x = b.x, y = b.y, ang = fa;
-    for (let s2 = 0; s2 <= fl; s2 += 1) {
-      fp.push({ x, y, t: s2 / fl });
-      ang += (1 - claw) * 0.18 * (f < 2 ? 1 : -1) + 0.03;
-      x += Math.cos(ang); y += Math.sin(ang);
-    }
-    fingers.push(fp);
+    let v = e > 0.55 ? 0.82 : e > 0.05 ? 0.64 : e > -0.55 ? 0.44 : 0.22;          // harte Stufen
+    if (t > 0.58 && t < 0.9 && Math.abs(e + 0.05) < 0.12) v = 0.3;                  // Rinne im Unterarm
+    if (t > 0.58 && t < 0.88 && e > 0.5) v = 0.9;                                   // Ellenkante im Licht
+    if (t > 0.12 && t < 0.42 && Math.abs(e - 0.2) < 0.08) v -= 0.18;               // Sehne am Oberarm
+    return skinStep(v + sh);
+  } : (e, t, x, y) => shade(SKIN, (e > 0.45 ? 0.8 : e > -0.35 ? 0.55 : 0.28) + sh, x, y));
+  // Ellbogenknochen: spitzer Knauf nach außen, Glanz oben, Schatten darunter, zwei Hautfalten in der Beuge
+  const ox = M.x - (S.x + E.x) / 2, oy = M.y - (S.y + E.y) / 2, ol = Math.hypot(ox, oy) || 1;
+  const ux = ox / ol, uy = oy / ol;
+  const kx = M.x + ux * 1.3, ky = M.y + uy * 1.3;
+  pt.ellipse(kx, ky, 1.4, 1.2, SKIN[back ? 2 : 4]);
+  pt.ellipse(kx + ux * 0.5 - 0.3, ky + uy * 0.5 - 0.3, 0.7, 0.6, SKIN[back ? 3 : 5]);
+  if (fine) {
+    pt.dot(kx + ux * 1.4 - 0.5, ky + uy * 1.4 - 0.5, SKIN[back ? 4 : 6]);
+    pt.dot(kx + 0.75, ky + 1.25, SKIN[1]); pt.dot(kx + 1.25, ky + 0.75, SKIN[1]);
+    for (const k of [-1.2, 1.2]) pt.dot(M.x - ux * 1.5 + uy * k * 0.4, M.y - uy * 1.5 - ux * k * 0.4, SKIN[1]);
   }
-  const fw = (t) => (t > 0.74 ? 1.5 - (t - 0.74) * 3.4 : 1.6 - t * 0.4 + bump(t, 0.3, 0.07, 0.7) + bump(t, 0.58, 0.06, 0.5));
-  pt.ellipse(b.x, b.y, 3.0, 2.7, OL);
-  for (const fp of fingers) tube(pt, fp, (t) => fw(t) + (fine ? 1 : 1.4), (e, t) => (t > 0.74 ? HAIR[0] : OL));
-  pt.ellipse(b.x, b.y, 2.4, 2.1, SKIN[back ? 2 : 3]);
-  if (fine) { pt.dot(b.x - 1, b.y - 1, SKIN[back ? 3 : 5]); pt.dot(b.x - 0.5, b.y - 1.25, SKIN[back ? 3 : 5]); }
-  for (const fp of fingers) {
-    tube(pt, fp, fw, (e, t, X, Y) => {
-      if (t > 0.74) return e > 0 ? HAIR[back ? 3 : 5] : HAIR[back ? 2 : 4];
-      let v = (e > 0.4 ? 0.62 : e > -0.3 ? 0.46 : 0.28) + sh;
-      if (fine && (Math.abs(t - 0.3) < 0.06 || Math.abs(t - 0.58) < 0.05) && e > 0) v += 0.2;   // Knöchel im Licht
-      return fine ? SKIN[Math.max(0, Math.min(6, Math.round(v * 6)))] : shade(SKIN, v, X, Y);
-    });
-    if (fine) {
-      const q = fp[fp.length - 1];
-      if (q && !back) { pt.dot(q.x, q.y, HAIR[5]); pt.gdot(q.x, q.y, K_GILL, 2); }
+  // Krallenhand: Handrücken breiter als das Handgelenk, vier getrennte Finger aus der Knöchelreihe
+  const a = pts[pts.length - 3], b = pts[pts.length - 1];
+  const base = Math.atan2(b.y - a.y, b.x - a.x), bc = Math.cos(base), bs = Math.sin(base);
+  const hx = b.x + bc * 1.6, hy = b.y + bs * 1.6;
+  pt.ellipse(hx, hy, 3.4, 2.9, SKIN[back ? 2 : 3]);
+  pt.ellipse(hx - 0.7, hy - 0.8, 1.9, 1.3, SKIN[back ? 3 : 4]);
+  if (fine) pt.dot(hx - 1.5, hy - 1.5, SKIN[back ? 4 : 5]);
+  for (let f = 0; f < 4; f++) {
+    const off = (f - 1.5) * 1.75;
+    const fa = base + (f - 1.5) * (0.16 + claw * 0.22);
+    const fl = 6.2 + hash2(f, seed, 285) * 1.2 - (f === 0 ? 1.4 : 0);
+    let x = hx + bc * 2.2 - bs * off, y = hy + bs * 2.2 + bc * off, ang = fa;
+    const fp = [];
+    for (let s2 = 0; s2 <= fl; s2 += 0.5) {
+      fp.push({ x, y, t: s2 / fl });
+      ang += ((1 - claw) * 0.18 * (f < 2 ? 1 : -1) + 0.035) * 0.5;
+      x += Math.cos(ang) * 0.5; y += Math.sin(ang) * 0.5;
     }
+    tube(pt, fp, (t) => (t > 0.68 ? 1.9 - (t - 0.68) * 4.6 : 2.0 - t * 0.4 + bump(t, 0.06, 0.08, 0.5) + bump(t, 0.4, 0.06, 0.45)), (e, t, X, Y) => {
+      if (t > 0.68) return e > 0.2 ? HAIR[back ? 3 : 5] : e > -0.4 ? HAIR[back ? 2 : 4] : HAIR[back ? 1 : 2];
+      let v = (e > 0.3 ? 0.7 : e > -0.4 ? 0.5 : 0.24) + sh;
+      if (fine && (t < 0.12 || Math.abs(t - 0.4) < 0.05) && e > 0.1) v += 0.18;
+      if (fine && e < -0.75) v = 0.14 + sh;   // dunkle Kante trennt die Finger   // Knöchel im Licht
+      return fine ? skinStep(v) : shade(SKIN, v, X, Y);
+    });
+    if (fine && !back) { const q = fp[fp.length - 1]; pt.dot(q.x, q.y, HAIR[5]); pt.gdot(q.x, q.y, K_GILL, 2); }
   }
   meta[key] = { x: b.x, y: b.y };
   pt.clip = H;
@@ -1245,8 +1249,8 @@ function drawMother(pt, P, ex) {
   const EB = { x: SB.x + P.hBx, y: SB.y + P.hBy };
 
   // Kontaktschatten: harte, fast schwarze Lache unter Leib und Wurzeln, setzt die Figur vom Boden ab
-  { const cx = L.cx + 5, rx = 46 * P.rootSpread + P.collapse * 8;
-    pt.ellipse(cx, GY - 0.5, rx, 6.5, SHADOW[0]); pt.ellipse(cx - 2, GY - 1, rx * 0.86, 5.2, SHADOW[1]); }
+  { const cx = L.cx + 5, rx = 44 * P.rootSpread + P.collapse * 8;
+    pt.ellipse(cx, GY + 1, rx, 7.5, SHADOW[0]); pt.ellipse(cx - 2, GY, rx * 0.88, 6, SHADOW[1]); }
   slimePool(pt, P, L);
   roots(pt, P, L, false);
   vineArm(pt, P, SB, EB, P.bCurl, P.bClaw, true, 7, meta, 'handB');

diff --git a/site/tools/bosskino_faeulnis.py b/site/tools/bosskino_faeulnis.py
@@ -24,24 +24,24 @@ MAT.update({
     'flesh': ['#06080e', '#171d31', '#232b45', '#313b5b', '#455375'],
     'fleshd': ['#04060a', '#0d1120', '#171d31', '#232b45', '#313b5b'],
     'fleshl': ['#06080e', '#455375', '#637393', '#8494b2', '#a6b4cc'],
-    'skin': ['#090b14', '#333d51', '#515d75', '#77899f', '#a5b5c5'],
-    'skinl': ['#090b14', '#77899f', '#a5b5c5', '#c4d2de', '#e2ecf2'],
-    'hide': ['#090b14', '#1d2331', '#2e374b', '#46526a', '#626f88'],
-    'face': ['#090b14', '#333d51', '#515d75', '#77899f', '#a5b5c5'],
-    'faceh': ['#090b14', '#77899f', '#a5b5c5', '#d5e1e9', '#eef6fa'],
-    'rot': ['#090b14', '#121428', '#191a36', '#24304a', '#2e3a58'],
+    'skin': ['#0c0c12', '#42404c', '#66626e', '#928c94', '#bdb7ba'],
+    'skinl': ['#0c0c12', '#928c94', '#bdb7ba', '#d6d0d0', '#eeeae8'],
+    'hide': ['#0c0c12', '#26262e', '#3a3842', '#55525e', '#75707c'],
+    'face': ['#0c0c12', '#42404c', '#66626e', '#928c94', '#bdb7ba'],
+    'faceh': ['#0c0c12', '#928c94', '#bdb7ba', '#e6e2e0', '#f6f2f0'],
+    'rot': ['#0c0c12', '#16142a', '#1e1a30', '#2e2a44', '#3a3654'],
     'brow': ['#090b14', '#333d51', '#515d75', '#77899f', '#a5b5c5'],
     'maw': ['#06050c', '#06050c', '#0a0814', '#0e0c1a', '#141222'],
     'fang': ['#2c3440', '#56647a', '#8ea0b4', '#c8d6e2', '#eef6fa'],
     'cap': ['#07051a', '#1d1540', '#2a1f58', '#3c2c72', '#54408e'],
-    'capl': ['#07051a', '#54408e', '#6a54a2', '#8270b8', '#9e8ed0'],
+    'capl': ['#07051a', '#54408e', '#7a66b4', '#a898dc', '#e4dafa'],
     'capd': ['#05030f', '#120d2c', '#1d1540', '#2a1f58', '#3c2c72'],
     'gill': ['#041218', '#0a2a36', '#0e4452', '#14606c', '#1c8086'],
     'gillg': ['#061e28', '#1c8e96', '#46c6c2', '#a6f2ea', '#e2fff6'],
     'myc': ['#16262e', '#46707c', '#70a2aa', '#a4d4d4', '#dcf8f2'],
     'cloak': ['#06080e', '#171d31', '#232b45', '#313b5b', '#455375'],
-    'bark': ['#08080c', '#1e1e28', '#2c2c3a', '#3e3e50', '#545468'],
-    'barkd': ['#050508', '#121218', '#1e1e28', '#2c2c3a', '#3e3e50'],
+    'bark': ['#0e0e14', '#3c4258', '#565e7a', '#747e9c', '#98a2be'],
+    'barkd': ['#08080c', '#262a3a', '#3c4258', '#565e7a', '#747e9c'],
     'moss': ['#08161a', '#0e2a2e', '#164044', '#20585a', '#2e7472'],
     'mossd': ['#050c0e', '#08161a', '#0e2a2e', '#164044', '#20585a'],
     'sac': ['#04161c', '#062830', '#0a4650', '#127478', '#1c9898'],
@@ -58,7 +58,7 @@ MAT.update({
 })
 GLOW.clear(); GLOW.update({'eye', 'sacg', 'gillg', 'vein', 'pus'})
 SPEC.clear(); SPEC.update({'bone': '#e6f2f6', 'fang': '#ffffff', 'fleshl': '#c4d2e6', 'skin': '#d5e1e9'})
-RIM_F = {'flesh': '#7a88a8', 'skin': '#c4d2de', 'hide': '#a6b4c8', 'face': '#c4d2de', 'cap': '#8e7cc4', 'bark': '#6a6a84', 'moss': '#3e8a86',
+RIM_F = {'flesh': '#7a88a8', 'skin': '#e6e2e0', 'hide': '#bdb7ba', 'face': '#e6e2e0', 'cap': '#8e7cc4', 'bark': '#6a6a84', 'moss': '#3e8a86',
          'myc': '#dcf8f2', 'sac': '#a6f4e6', 'spot': '#e6f2f6'}
 RIM_B = {'flesh': '#2a8a8a', 'fleshd': '#1c6464', 'cap': '#3a9a9a', 'capd': '#2a7272', 'bark': '#2a6060', 'barkd': '#1c4444',
          'skin': '#46c6c2', 'hide': '#2a9090', 'moss': '#2a8080', 'mossd': '#1c5a5a', 'gill': '#46c6c2', 'myc': '#46c6c2', 'face': '#46c6c2'}
@@ -314,8 +314,12 @@ def cap(f, c, tilt=0.0, gills=1.0, glow=0, hy=0.0, Rr=40, Hd=23, squash=0.0):
     hgt = np.where(dm, (rimy - ly) / np.maximum(0.01, rimy - top), 0)
     v = 0.16 + hgt * 0.46 + q * 0.34 + np.where((hgt > 0.6) & (q > -0.05), 0.12, 0)
     q0 = q / np.maximum(0.2, 1 - 0.6 * np.power(hgt, 1.4))
-    gs = np.sin(q0 * 14 + 0.3)
-    v -= np.where((hgt < 0.82) & (np.abs(gs) < 0.2), 0.16, 0)             # radiale Rillen
+    ga = q0 * 14 + 0.3; gi = np.round(ga / np.pi)
+    jit = np.vectorize(lambda a, b: hash2(int(a), int(b), 401))
+    gs = np.sin(ga + 0.45 * np.sin(hgt * 6.5 + gi * 1.9) + (jit(gi, 1) - 0.5) * 0.9)   # unregelmäßige Rillen
+    gw_ = 0.1 + 0.18 * jit(gi, 2)
+    cut_ = jit(gi, np.floor(hgt * 5) + 7) < 0.22
+    v -= np.where((hgt < 0.82) & (np.abs(gs) < gw_) & ~cut_, 0.16, 0)             # radiale Rillen
     v += np.where((hgt < 0.82) & (gs < -0.2) & (gs > -0.42) & (q > -0.3), 0.07, 0)   # Lichtgrat daneben
     t = np.select([v < 0.22, v < 0.42, v < 0.6, v < 0.78], [1, 2, 3, 4], 4)
     cm = np.full((f.H, f.W), 'cap', dtype=object)
@@ -323,6 +327,8 @@ def cap(f, c, tilt=0.0, gills=1.0, glow=0, hy=0.0, Rr=40, Hd=23, squash=0.0):
     # durchscheinender Rand (Band) und leuchtende Unterkante
     band = dm & (ly > rimy - 3.2)
     cm[band] = 'capl'; t = np.where(band, np.where(q > 0.2, 3, 2), t)
+    up_ = dm & (ly - top < 1.8)                                              # helle Oberkante
+    cm[up_] = 'capl'; t = np.where(up_, np.where(q > -0.2, 4, 3), t)
     edge = dm & (ly > rimy - 1.2)
     cm[edge] = 'gillg'; t = np.where(edge, 3 + ((np.floor(lx / 4) + glow) % 2 == 0), t)
     paint(f, dm, cm, t.astype(int))
@@ -390,7 +396,7 @@ def arm(f, sh, hand, el_out=0.0, claw=0.0, back=False, seed=0, clip=None, sway=0
     tn = np.where(sinew & (tn > 1), tn - 1, tn)
     crease = T.m & ((np.abs(T.t - tj + 0.035) < 0.006) | (np.abs(T.t - tj - 0.035) < 0.006)) & (T.e < 0.3) & (T.e > -0.6)
     tn = np.where(crease & (tn > 1), tn - 1, tn)
-    paint(f, T.m, mb, np.maximum(1, tn).astype(int))
+    paint(f, T.m, mb, np.maximum(1, tn).astype(int), line=False)   # Form über harte Stufen, keine Linienkontur
     # Ellbogenknoten
     kn = f.ell(el[0] - 0.5, el[1] + 0.5, 4.2, 3.8)
     if clip is not None: kn[clip:] = False
@@ -410,9 +416,9 @@ def arm(f, sh, hand, el_out=0.0, claw=0.0, back=False, seed=0, clip=None, sway=0
     sp = 22 + claw * 14
     fing = fing or (0, 0, 0, 0)
     for j in range(4):
-        L = (24, 29, 27, 19)[j] * (0.85 if back else 1)
-        finger(f, hand, a0 + (1.5 - j) * sp * 0.6 + 12 - claw * 10 + fing[j], L, -(40 + claw * 50) - fing[j] * 0.5, w0=3.6 if not back else 3.3, back=back, clip=clip)
-    hm = f.ell(hand[0], hand[1], 5.4, 5.0)
+        L = (14, 17, 16, 11)[j] * (0.85 if back else 1)
+        finger(f, hand, a0 + (1.5 - j) * sp * 0.6 + 12 - claw * 10 + fing[j], L, -(40 + claw * 50) - fing[j] * 0.5, w0=4.8 if not back else 4.4, back=back, clip=clip)
+    hm = f.ell(hand[0], hand[1], 6.2, 5.6)
     if clip is not None: hm[clip:] = False
     paint(f, hm, mb, np.where(hm, dome(hm, r=2, cuts=(0.3, 0.6, 0.85)) - (1 if back else 0), 0).clip(1, 4), line=False)
     return el, T
